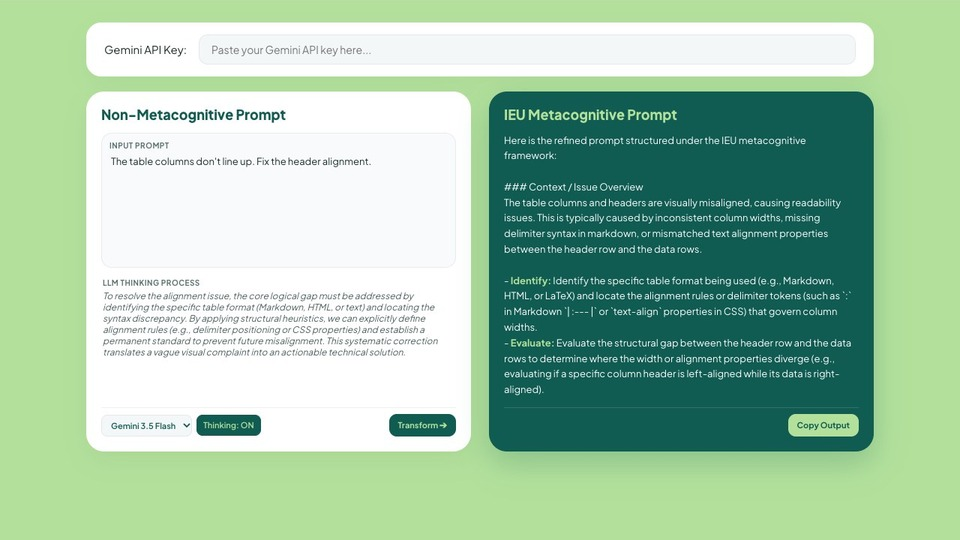
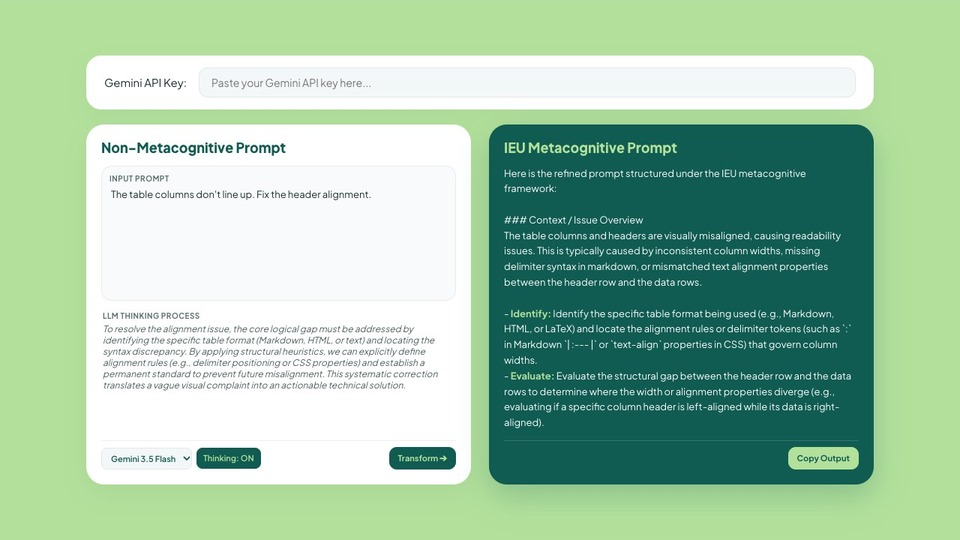
Prompt Machine: centre the layout vertically; re-record clip and still

Changed region(s): [[0.0625, 0.0296, 0.9375, 0.9185], [0.0938, 0.2667, 0.375, 0.3852]]

diff --git a/prompt-machine/sketch.js b/prompt-machine/sketch.js
@@ -42,7 +42,7 @@ function setup() {
       display: flex;
       flex-direction: column; 
       align-items: center; 
-      justify-content: flex-start;
+      justify-content: center;
       min-height: calc(100vh - 60px);
       padding: 30px 20px;
     }
